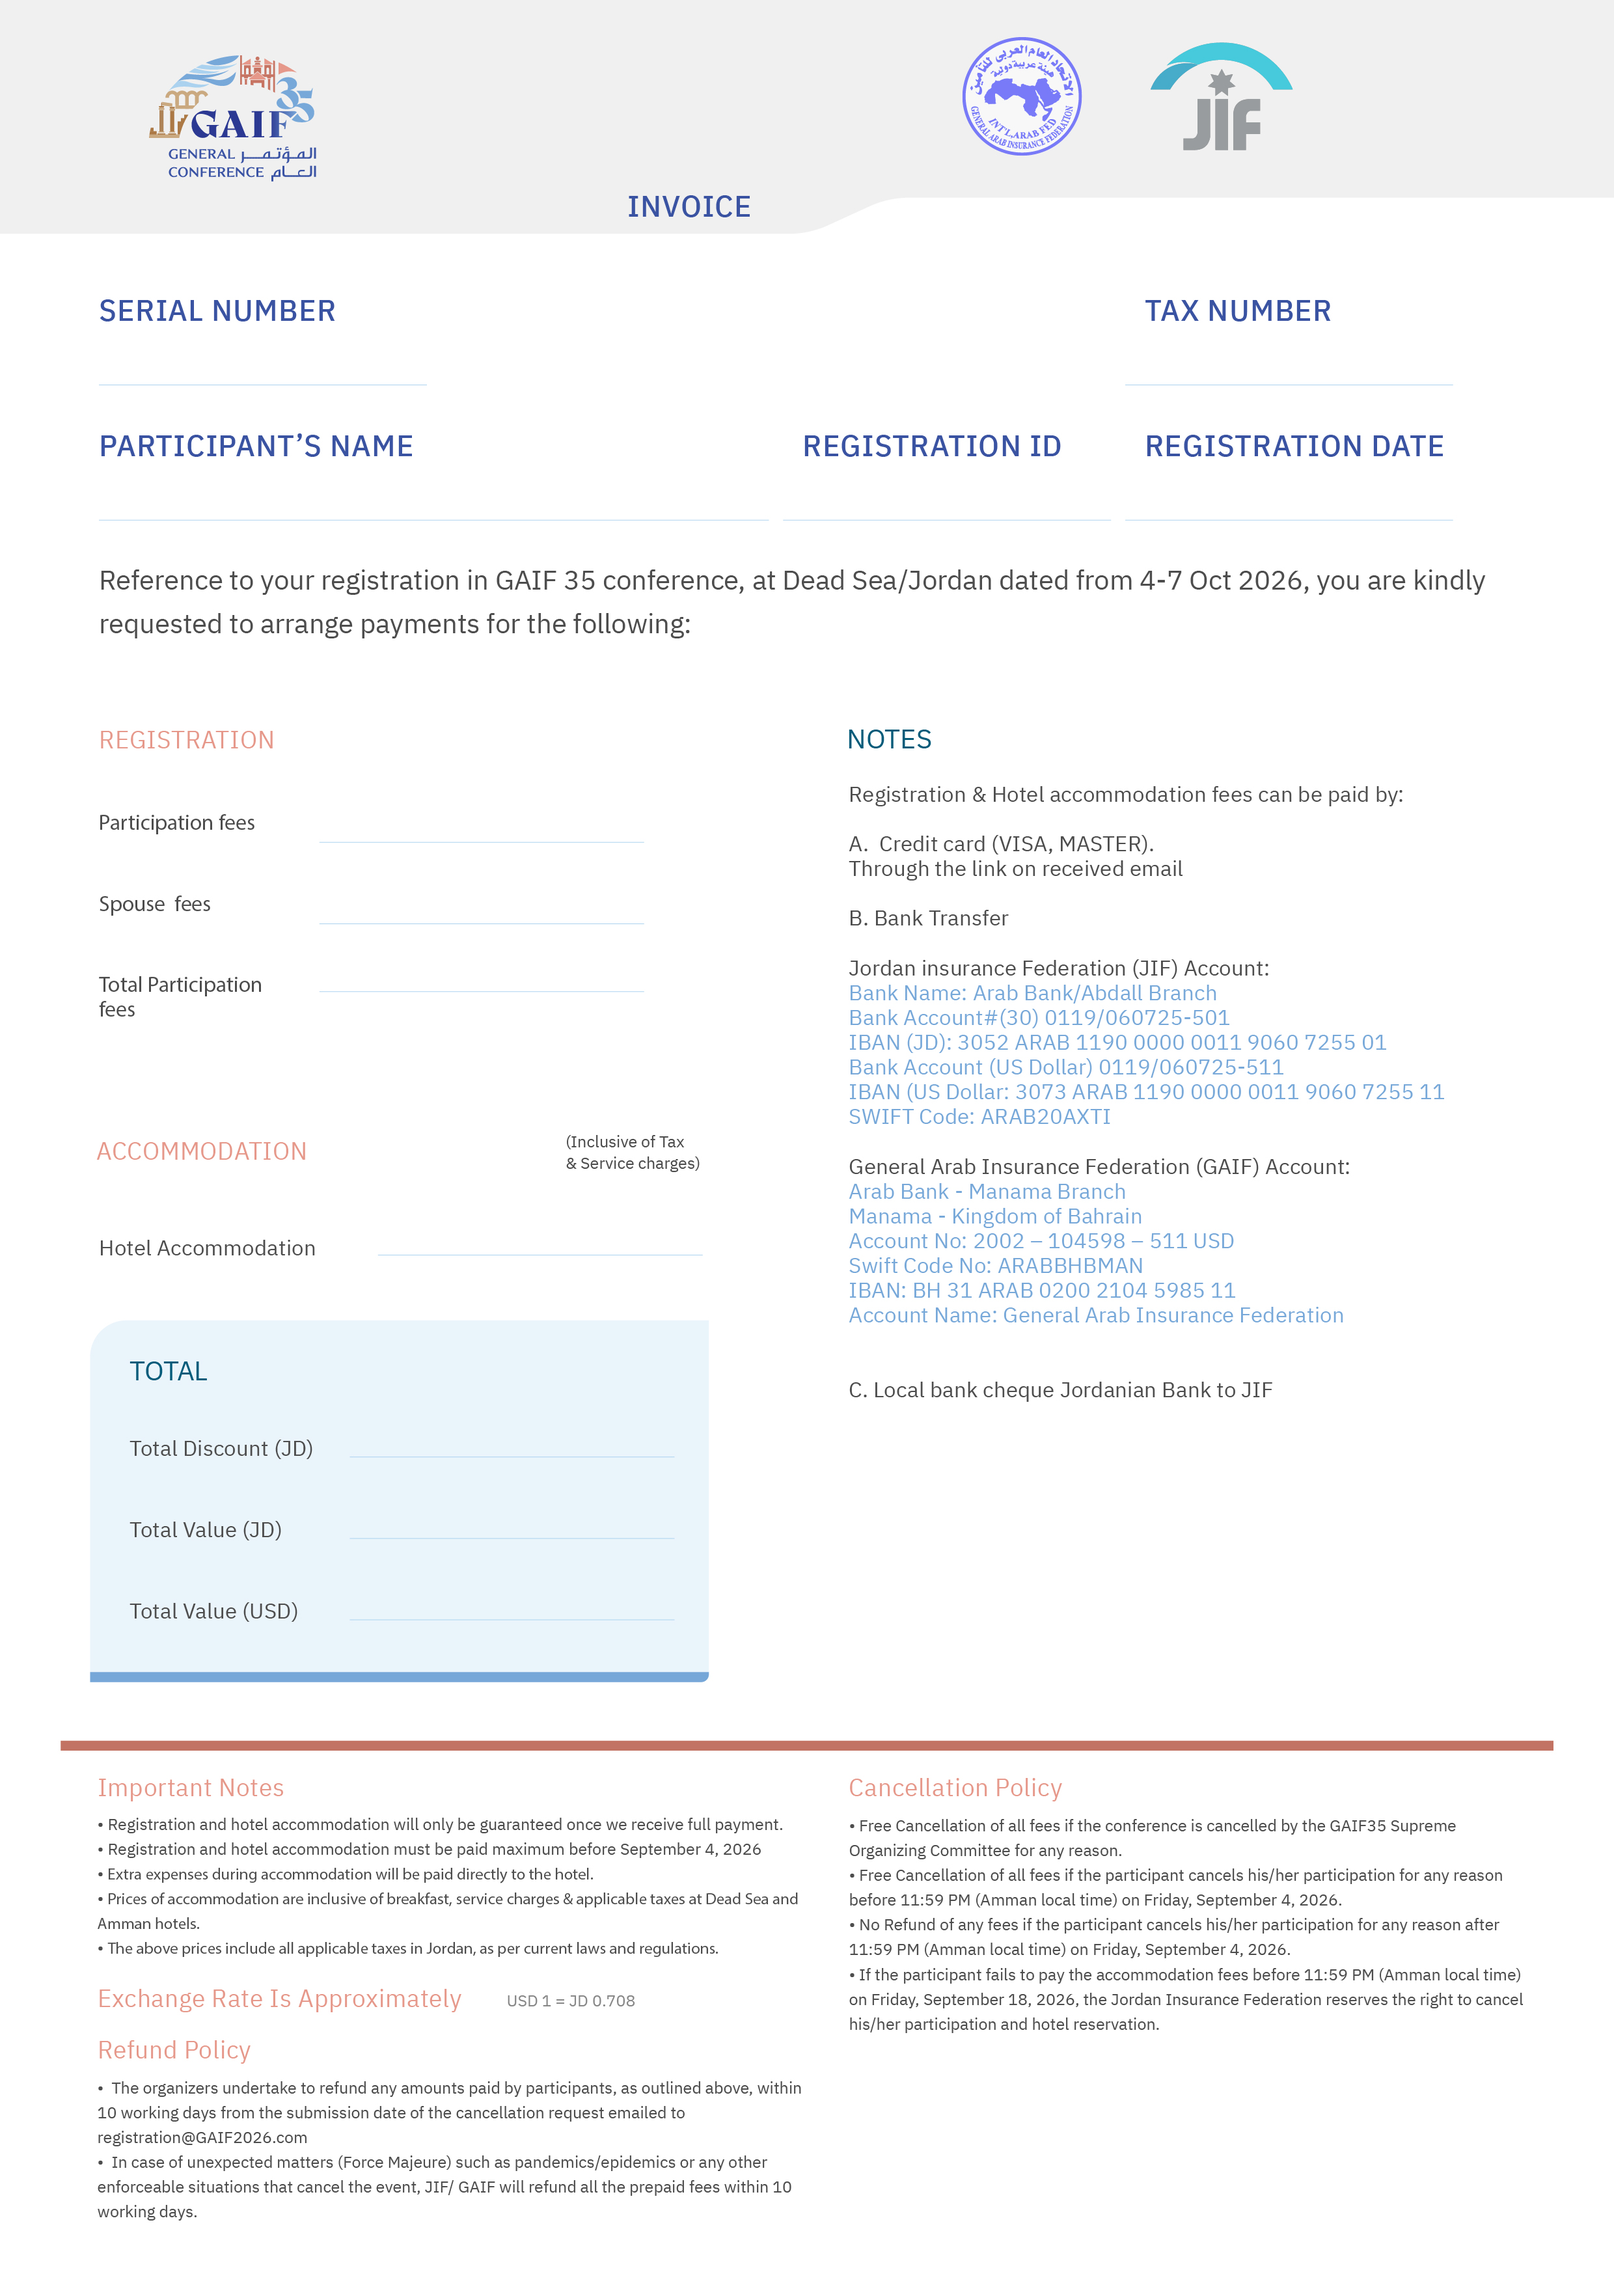
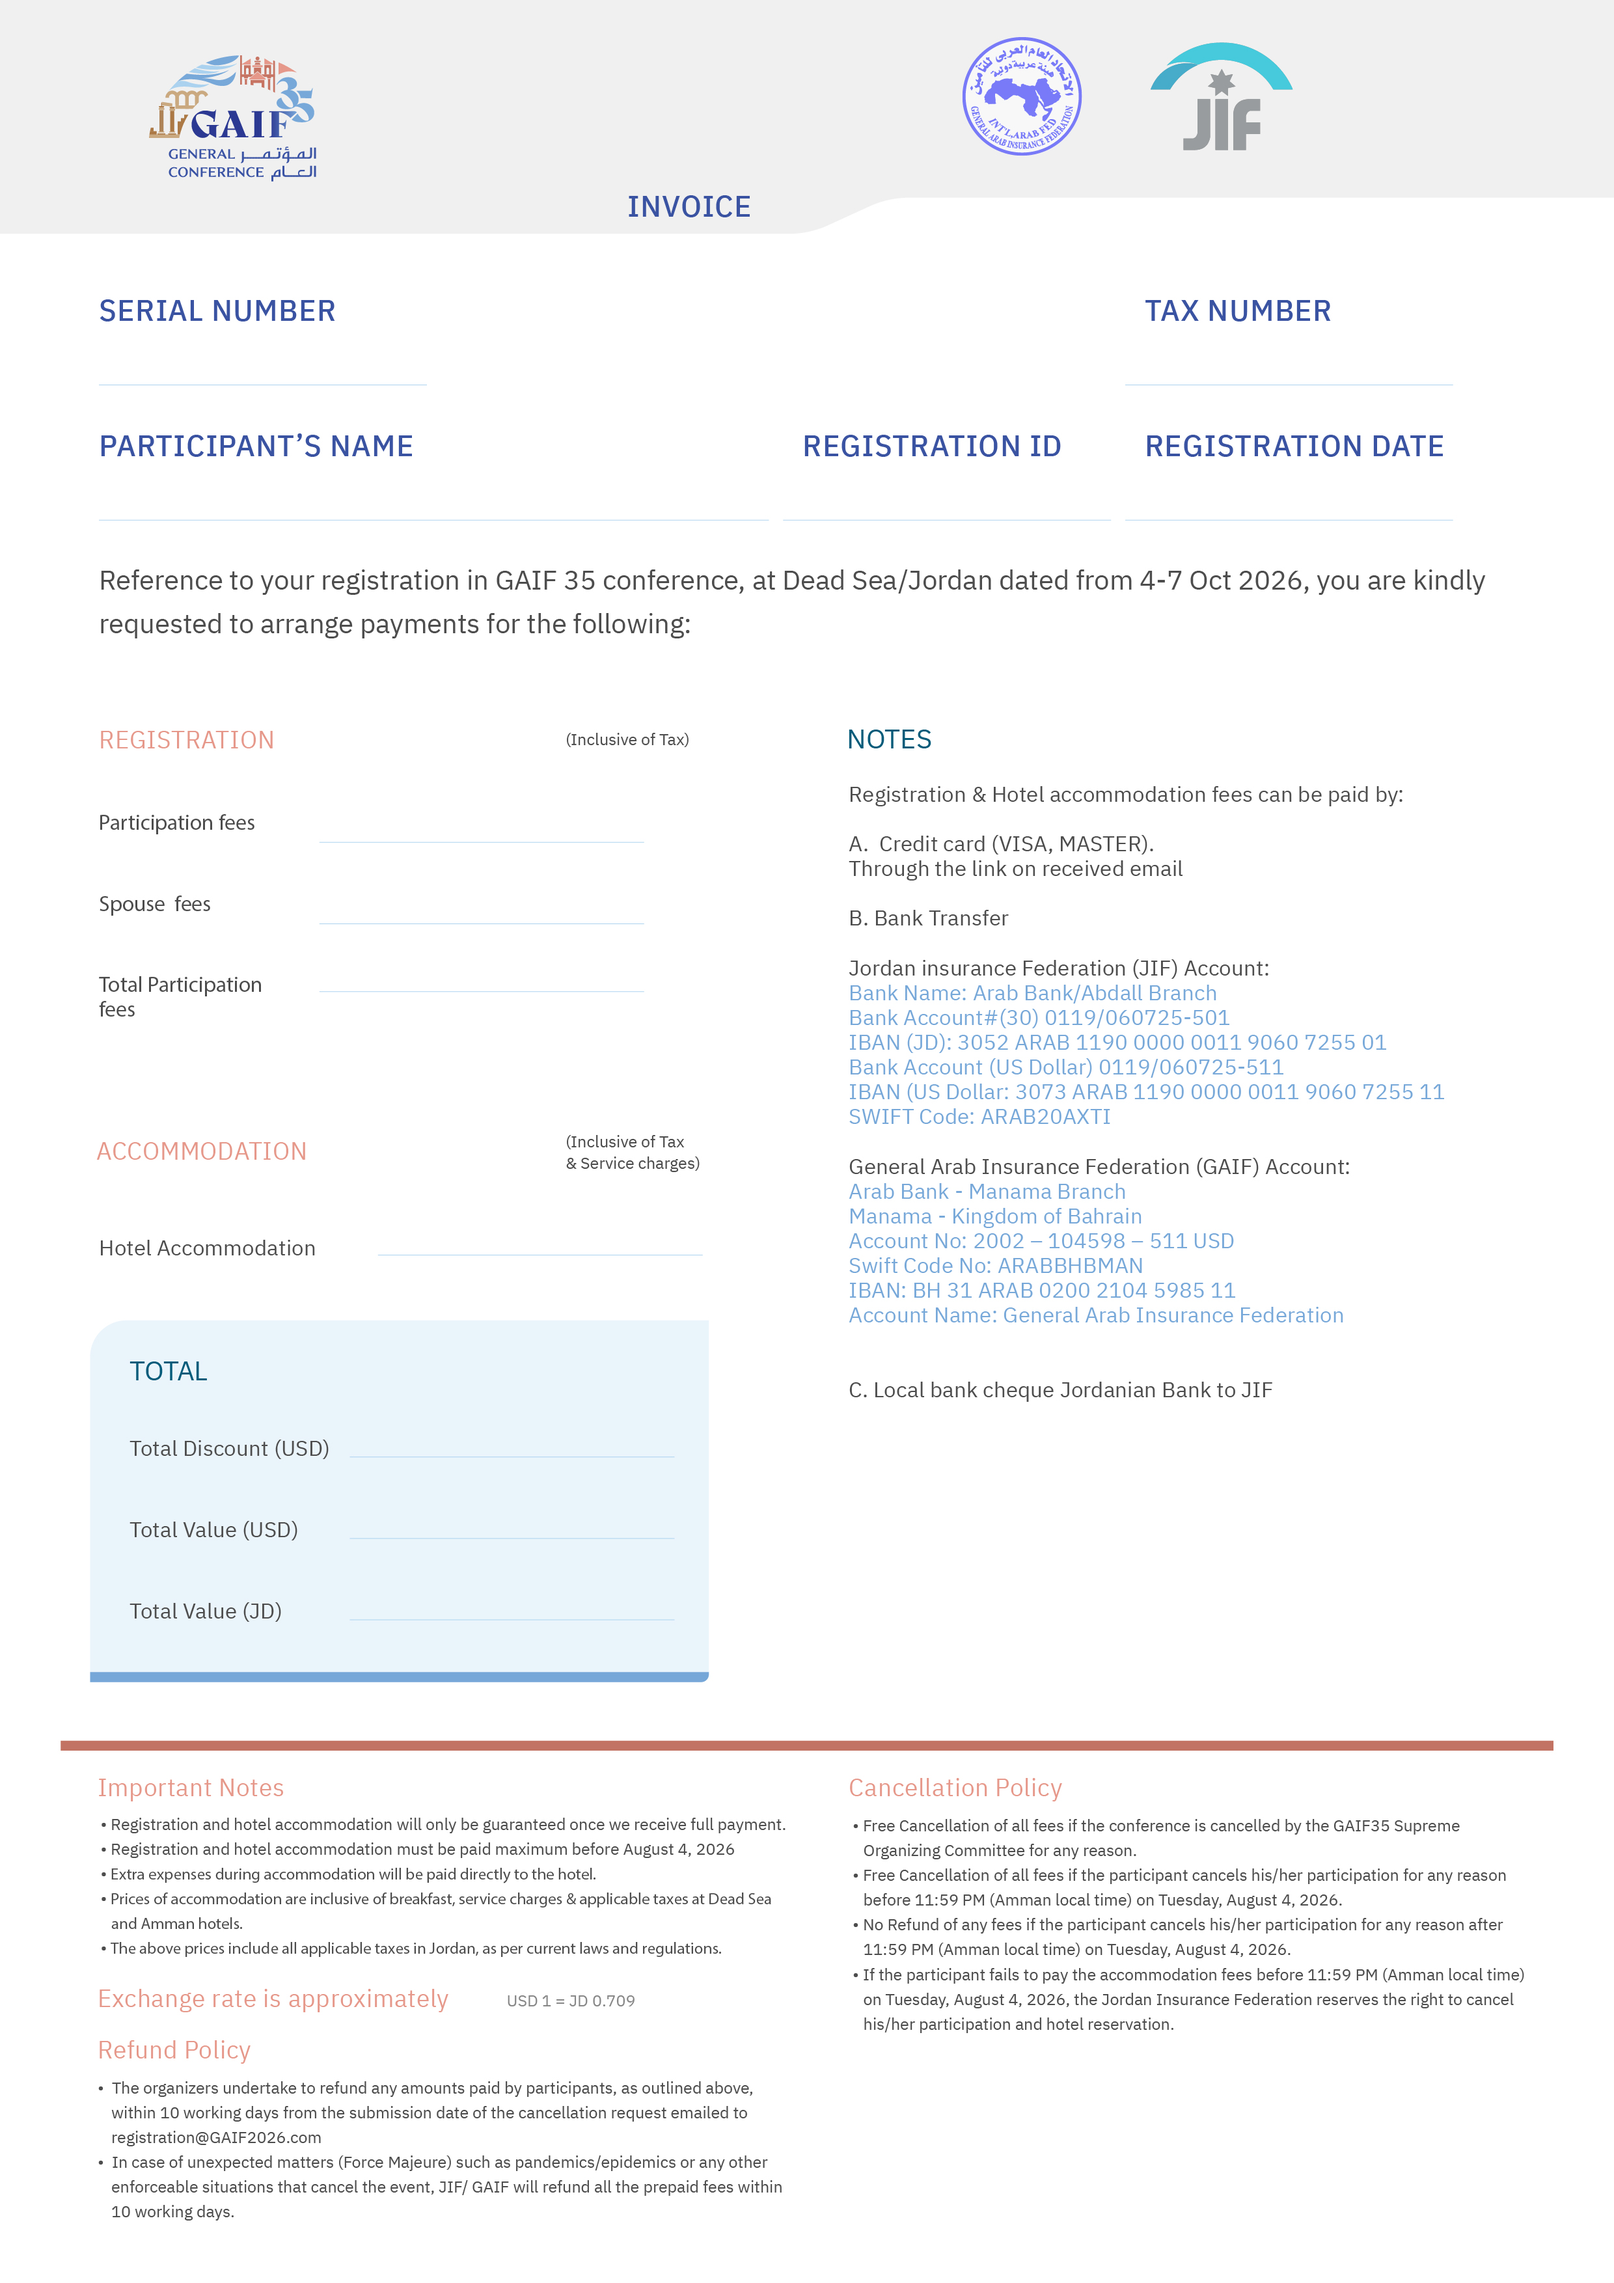
change the invose

diff --git a/services/invoice.service.js b/services/invoice.service.js
@@ -20,7 +20,7 @@ const {
 // Configuration for invoice
 const INVOICE_CONFIG = {
   // Exchange rate
-  exchangeRate: 0.708, // USD 1 = JD 0.70
+  exchangeRate: 0.709, // USD 1 = JD 0.70
 
   // Conference details
   conferenceNumber: 35,
@@ -671,13 +671,13 @@ const generateInvoicePDF = async (registration, invoice) => {
 
       // Total Value (JD)
       doc.font('Helvetica-Bold');
-      doc.text(formatCurrency(fees.totalValueJD), totalValueX, 555, {
+      doc.text(formatCurrency(fees.totalValueUSD, 'USD'), totalValueX, 555, {
         width: totalWidth,
         align: 'right',
       });
 
       // Total Value (USD)
-      doc.text(formatCurrency(fees.totalValueUSD, 'USD'), totalValueX, 585, {
+      doc.text(formatCurrency(fees.totalValueJD), totalValueX, 585, {
         width: totalWidth,
         align: 'right',
       });
@@ -685,21 +685,21 @@ const generateInvoicePDF = async (registration, invoice) => {
       // ============================================================
       // QR Code (if available from Fawaterkom)
       // ============================================================
-      if (qrImageBuffer) {
-        try {
-          // Use pre-generated QR code image buffer
-          doc.image(qrImageBuffer, 450, 500, {
-            width: 80,
-            height: 80,
-          });
-        } catch (qrError) {
-          // Log error but don't fail PDF generation
-          console.error(
-            'Error adding QR code to invoice PDF:',
-            qrError.message,
-          );
-        }
-      }
+      // if (qrImageBuffer) {
+      //   try {
+      //     // Use pre-generated QR code image buffer
+      //     doc.image(qrImageBuffer, 450, 500, {
+      //       width: 80,
+      //       height: 80,
+      //     });
+      //   } catch (qrError) {
+      //     // Log error but don't fail PDF generation
+      //     console.error(
+      //       'Error adding QR code to invoice PDF:',
+      //       qrError.message,
+      //     );
+      //   }
+      // }
 
       // Finalize the PDF
       doc.end();
@@ -1126,13 +1126,13 @@ const generatePaymentReceiptPDF = async (registration, invoice) => {
 
       // Total Value (JD)
       doc.font('Helvetica-Bold');
-      doc.text(formatCurrency(fees.totalValueJD), totalValueX, 555, {
+      doc.text(formatCurrency(fees.totalValueUSD, 'USD'), totalValueX, 555, {
         width: totalWidth,
         align: 'right',
       });
 
       // Total Value (USD)
-      doc.text(formatCurrency(fees.totalValueUSD, 'USD'), totalValueX, 585, {
+      doc.text(formatCurrency(fees.totalValueJD), totalValueX, 585, {
         width: totalWidth,
         align: 'right',
       });

diff --git a/services/companyInvoice.service.js b/services/companyInvoice.service.js
@@ -15,7 +15,7 @@ const {
 const { sendEmailWithAttachment } = require('./common/email.service');
 
 // Exchange rate configuration (same as invoice.service.js)
-const EXCHANGE_RATE = 0.708; // USD 1 = JD 0.70
+const EXCHANGE_RATE = 0.709; // USD 1 = JD 0.70
 
 // Template image path (using existing invoice template)
 const TEMPLATE_PATH = path.join(
